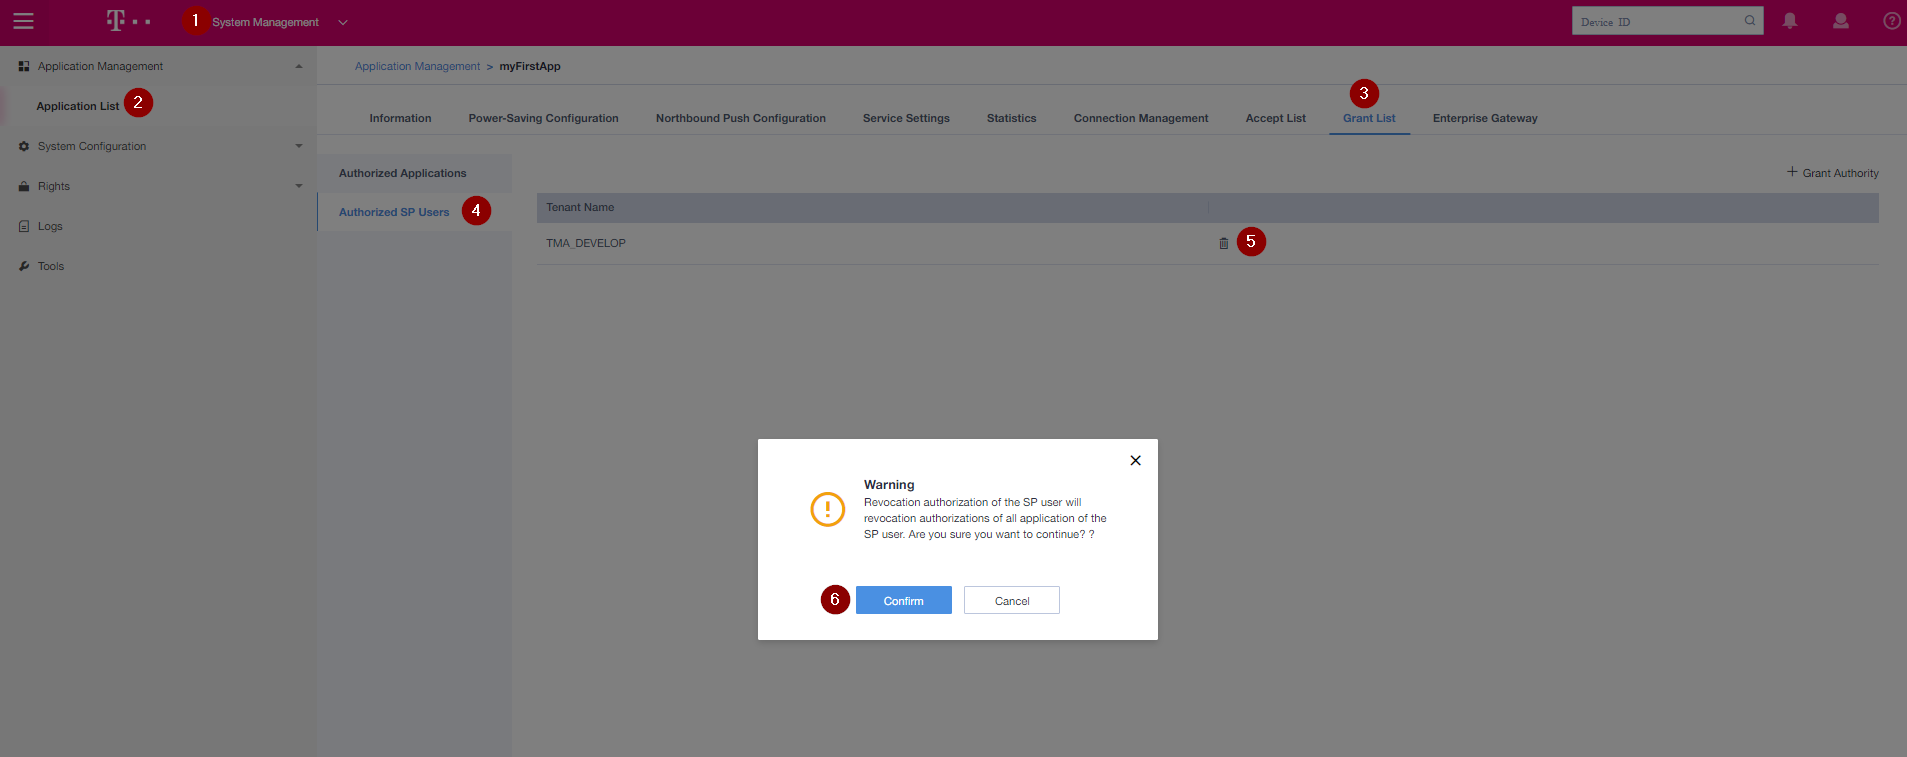
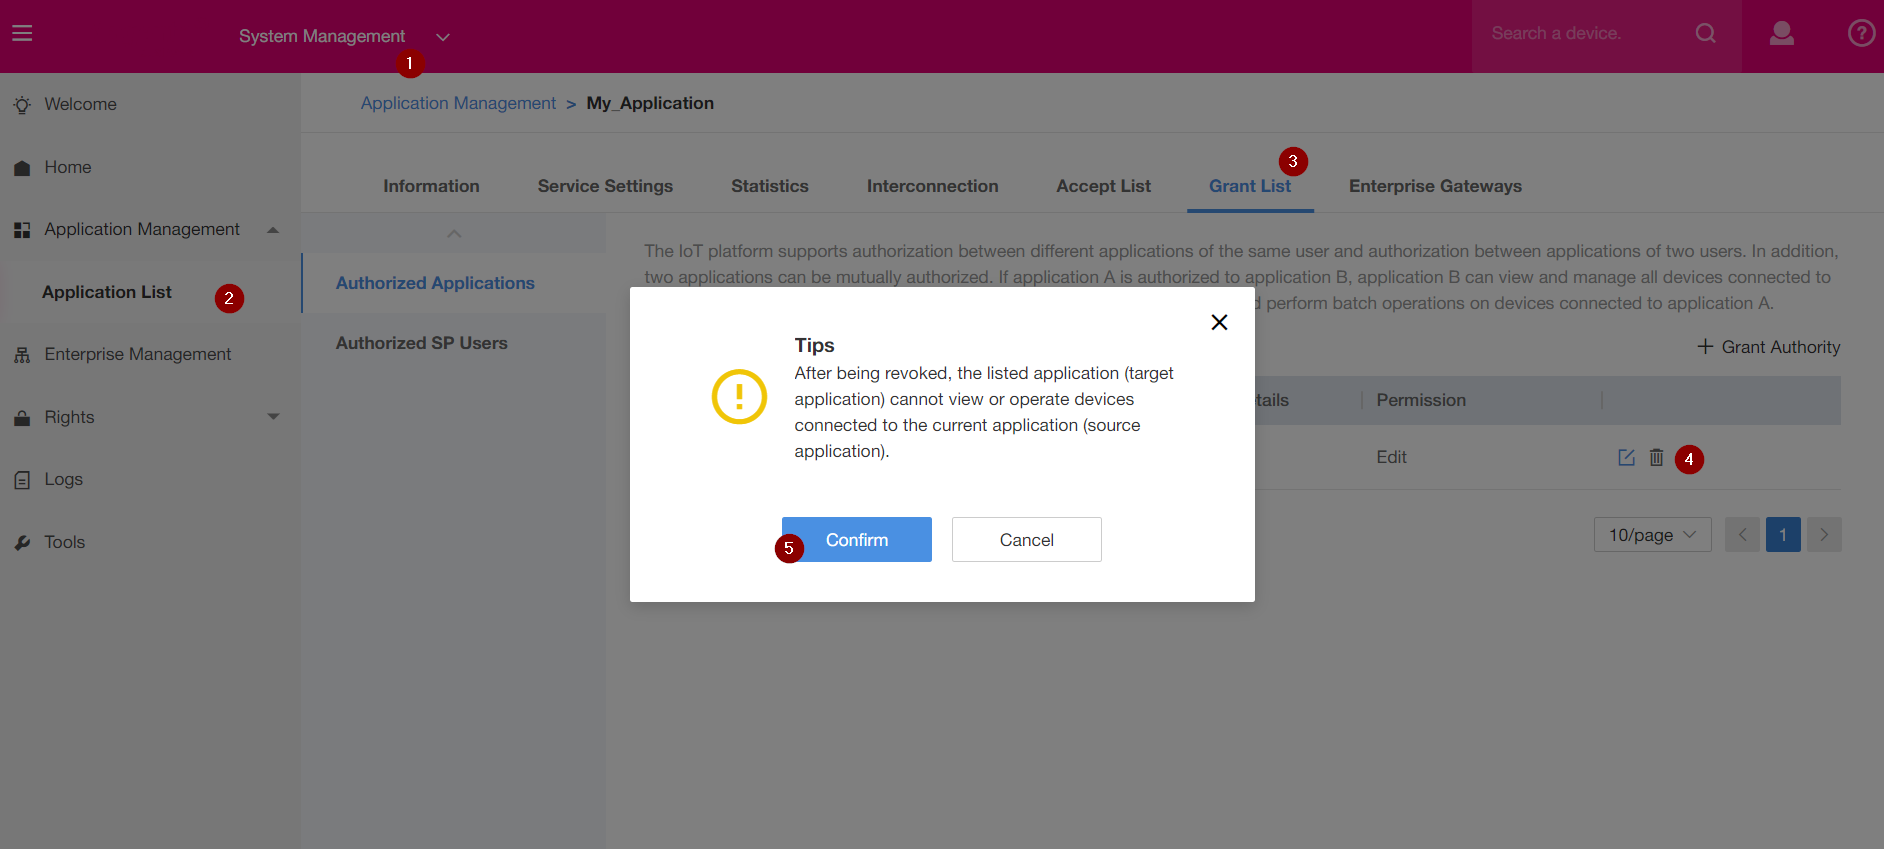
Updated after IoT-Gateway updated

diff --git a/docs/00_Prepare_for_Support.md b/docs/00_Prepare_for_Support.md
@@ -1,13 +1,19 @@
 # Grant Magenta Telekom Access 
+
 If you need support from us, we need access to your App.  
+
 ![Step5](./images/Step5.png)
+
 1. Click on System Management
 2. Click on "Application List" and select your application
 3. Choose Grant List
-4. Authorized SP Users
+4. Authorized Applications
 5. Grant Authority
-6. Enter: TMA_DEVELOP
-7. Click: authorize
+6. Target Application : Application of another SP user
+7. Application ID : WGEivX54MFr4F1KvPQ8AePG9BIQa  (This is the typical App ID used by us for support, by using this ID you can grant support to us)
+8. Permission : edit
+9. Click on Grant
 
-# Revoke Permission
+## Revoke the application Permission
+
 ![Step6](./images/Step6.png)
